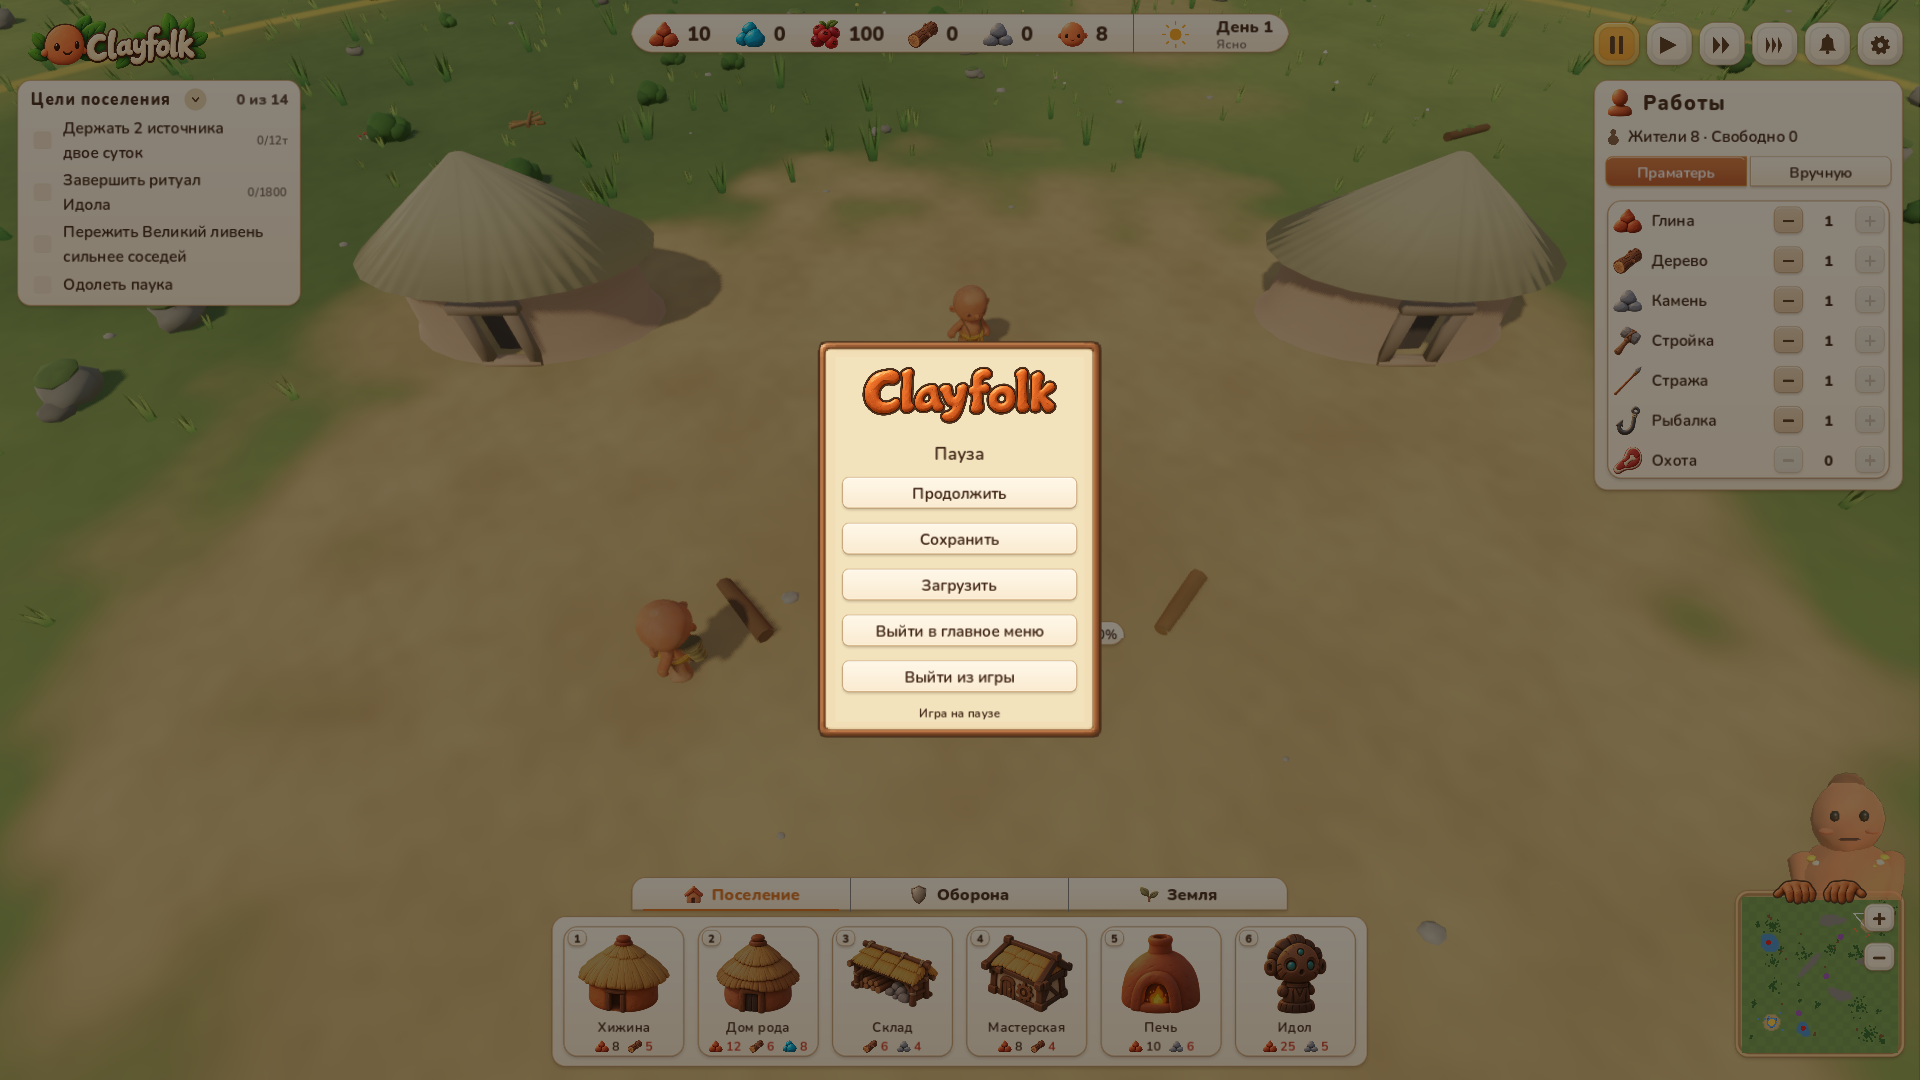
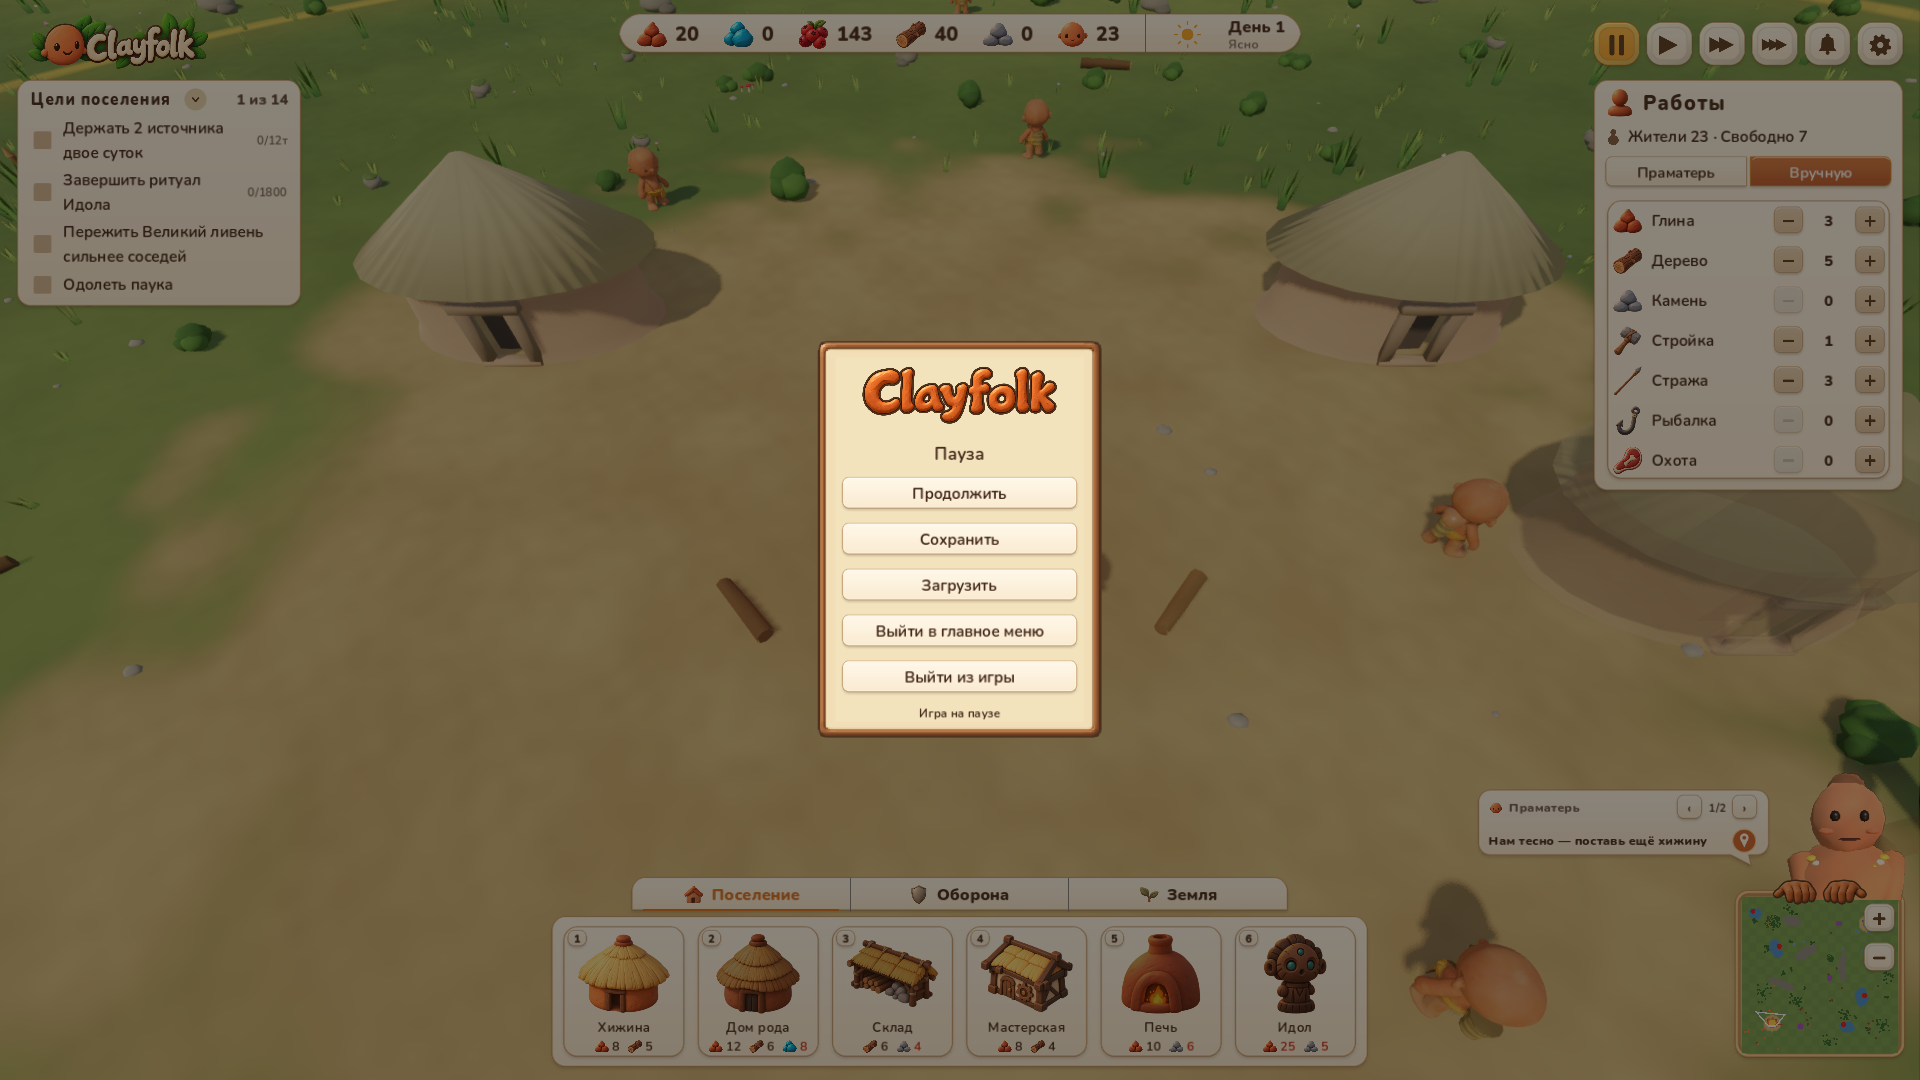
fix(godot): подсказка поверх панелей, жирные значки ускорения, цвет тревог
Подсказка на своём слое и больше не прячется под «Работами». Значки ▶▶ и ▶▶▶
собраны из того же жирного треугольника, что ▶ (art/hud/_tools/make_speed_glyphs.py);
размер глифа на кнопке задаётся отступами. Зелёная плашка — только для хороших
вестей: набег красный, погода и тревога янтарные. Пустые галочки целей заметнее.

diff --git a/art/hud/_tools/make_speed_glyphs.py b/art/hud/_tools/make_speed_glyphs.py
@@ -1,0 +1,43 @@
+"""Speed glyphs ▶▶ and ▶▶▶ built from the play triangle, like the owner's mock-up.
+
+The generated fast / faster glyphs came out thin; these reuse the bold
+glyph_play triangle (and its light twin), two or three in a row.
+
+    py -I art/hud/_tools/make_speed_glyphs.py
+"""
+from pathlib import Path
+
+from PIL import Image
+
+HUD = Path(__file__).resolve().parents[1]
+
+# name -> (count, triangle height as a share of play's, step as a share of width)
+LAYOUT = {"glyph_fast": (2, 0.80, 0.60), "glyph_faster": (3, 0.62, 0.56)}
+
+
+def build(src: Image.Image, count: int, k: float, step: float) -> Image.Image:
+    tri = src.crop(src.getchannel("A").getbbox())
+    w, h = max(1, round(tri.width * k)), max(1, round(tri.height * k))
+    tri = tri.resize((w, h), Image.LANCZOS)
+    dx = round(w * step)
+    total = w + dx * (count - 1)
+    out = Image.new("RGBA", src.size, (0, 0, 0, 0))
+    x0 = (src.width - total) // 2
+    y0 = (src.height - h) // 2
+    for i in range(count):
+        layer = Image.new("RGBA", src.size, (0, 0, 0, 0))
+        layer.paste(tri, (x0 + dx * i, y0), tri)
+        out = Image.alpha_composite(out, layer)
+    return out
+
+
+def main() -> None:
+    for suffix in ("", "_light"):
+        play = Image.open(HUD / f"glyph_play{suffix}.png").convert("RGBA")
+        for name, (count, k, step) in LAYOUT.items():
+            build(play, count, k, step).save(HUD / f"{name}{suffix}.png")
+            print("wrote", f"{name}{suffix}.png")
+
+
+if __name__ == "__main__":
+    main()
